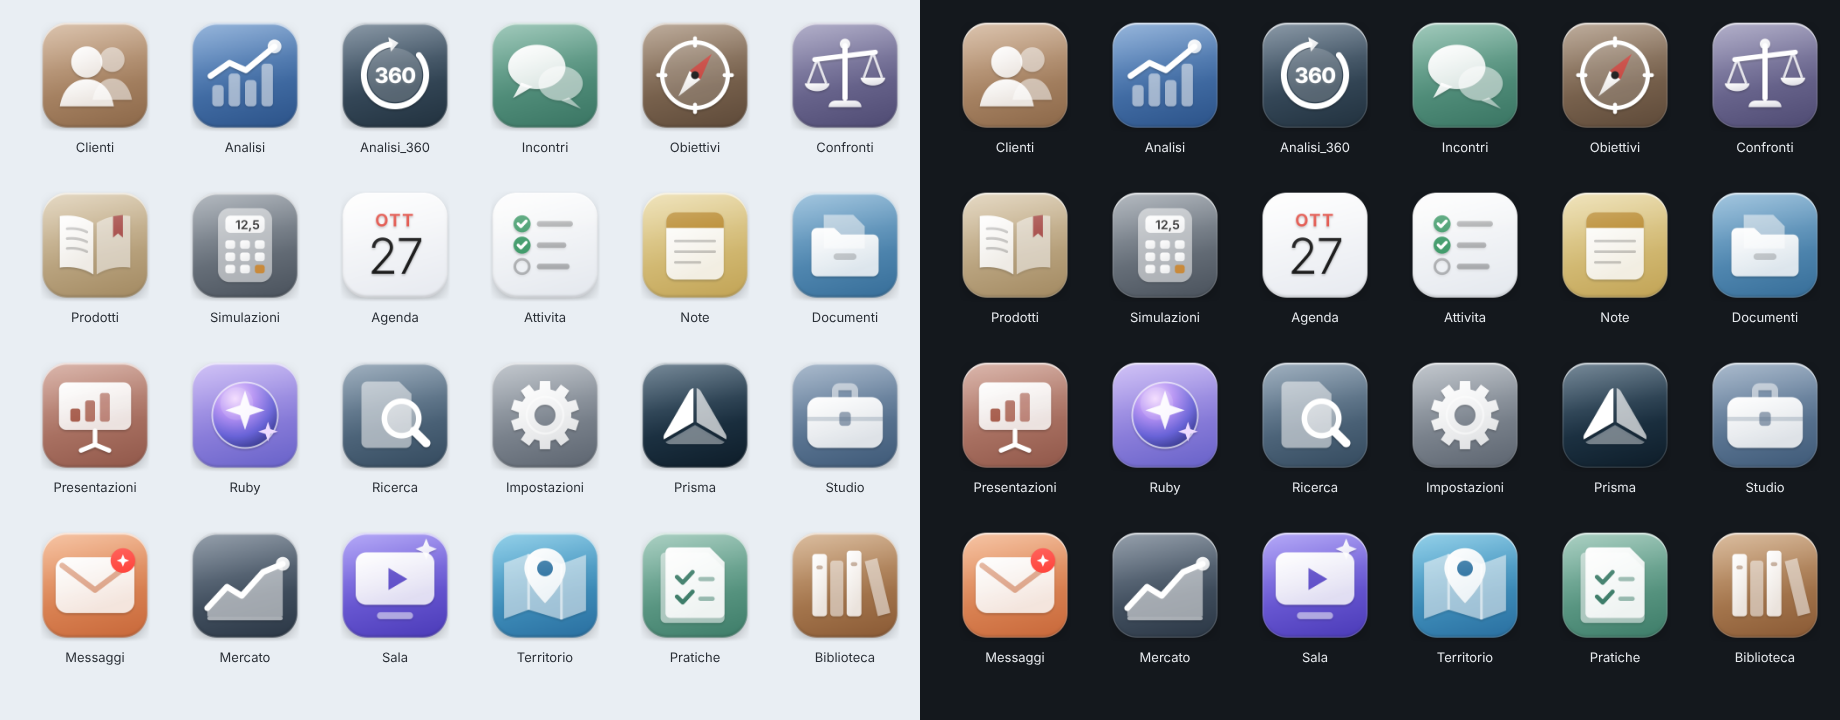
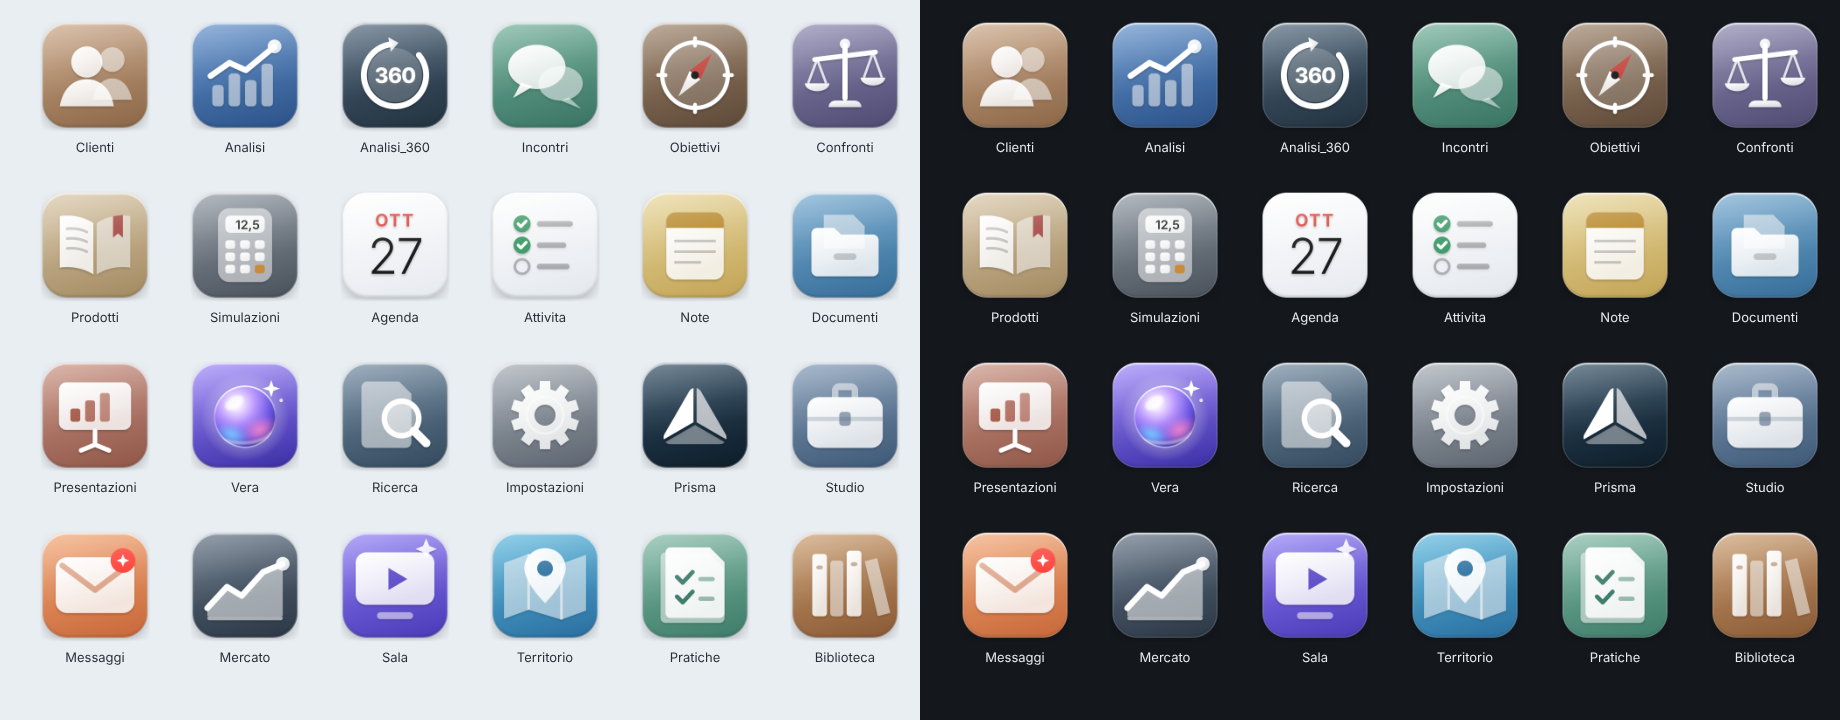
Micro-animazioni: dock, passaggio a Vera e nuova icona di Vera
- Dock: con l'ingrandimento la capsula non si alza più con le icone (escono sopra di lei,
  come nel Dock del Mac); con il puntatore già sul dock le icone lo seguono con una molla
  brevissima invece di rincorrerlo con una curva a ogni movimento.
- Dock nascosto richiamato: le finestre che arrivano fin laggiù si accorciano con lui,
  nello stesso movimento, e tornano lunghe quando scende.
- Vera della scrivania: le pagine scorrono intere e seguono il dito uno a uno (prima la
  scrivania si spostava di un terzo e sfumava), niente scatto alla partenza (lo spazio
  per decidere la direzione non si recupera di colpo), molla più rapida (0,3 s) e un
  colpo più leggero basta per cambiare pagina.
- Icona di Vera ridisegnata: la sfera luminosa grande con l'alone, la luce d'aurora,
  il riflesso e la stellina (genera-icone.js --solo-vera).

Claude-Session: https://claude.ai/code/session_01DWEqbHunoUJVuxpU2ymvqh

Changed region(s): [[0.5886, 0.4889, 0.6815, 0.7028], [0.0929, 0.4889, 0.1859, 0.7028]]

diff --git a/Design/Icone/genera-icone.js b/Design/Icone/genera-icone.js
@@ -20,6 +20,8 @@
  *     (--uscita scrive tutto in un'altra cartella, senza toccare il repository)
  *   NODE_PATH=$(npm root -g) node Design/Icone/genera-icone.js --solo-nuove
  *     (rigenera solo le icone di ICONE_NUOVE e la tavola di controllo: le altre PNG non si toccano)
+ *   NODE_PATH=$(npm root -g) node Design/Icone/genera-icone.js --solo-vera
+ *     (rigenera solo l'icona di Vera, ridisegnata il 12 novembre 2026 (VERA qui sotto), e la tavola di controllo)
  *
  * Geometria (uguale alle icone precedenti, così l'app non cambia codice):
  *   tela 512×512, piastrella 480×480 in (16, 12), raggio 23,5% come `.ic` del tema.
@@ -48,7 +50,8 @@ const USCITA = arg > 0 ? path.resolve(process.argv[arg + 1]) : null;
 const DIR_SVG = USCITA ? path.join(USCITA, 'svg') : path.join(RADICE, 'Design', 'Icone');
 const DIR_PNG = USCITA ? path.join(USCITA, 'png') : path.join(RADICE, 'Sources', 'Prisma', 'Risorse', 'Icone');
 const DIR_APP = USCITA ? USCITA : path.join(RADICE, 'Design', 'Icone');
-const SOLO_NUOVE = process.argv.includes('--solo-nuove');
+const SOLO_VERA = process.argv.includes('--solo-vera');
+const SOLO_NUOVE = process.argv.includes('--solo-nuove') || SOLO_VERA;
 
 // Nome del file nell'app → id nel tema (mappa di AppPrisma.icona)
 const ICONE = [
@@ -67,6 +70,35 @@ const SORGENTI_NUOVE = [
   [LUCE, ['Sala', 'Territorio', 'Pratiche', 'Biblioteca']]
 ];
 const ICONE_NUOVE = SORGENTI_NUOVE.flatMap(([, nomi]) => nomi);
+
+// Vera ridisegnata (12 novembre 2026, scelta lasciata a Claude dall'utente): non più il glifo del tema ma la sua
+// sfera luminosa, più grande e viva. Un alone morbido, la sfera di vetro con dentro una luce d'aurora (rosa e
+// azzurro sul viola), l'orlo chiaro, il riflesso in alto a sinistra, la luce che rimbalza in basso e una
+// stellina accanto. Riquadro 64 come gli altri glifi; gli id hanno il prefisso «v» (unici nella tela).
+const VERA = {
+  c1: '#9C84FA', c2: '#3B2FA6',
+  glifo: `<defs>
+      <radialGradient id="vAlone" cx="50%" cy="50%" r="50%"><stop offset=".6" stop-color="#E9DDFF" stop-opacity=".3"/><stop offset="1" stop-color="#fff" stop-opacity="0"/></radialGradient>
+      <radialGradient id="vSfera" cx="36%" cy="30%" r="78%"><stop offset="0" stop-color="#FFFFFF"/><stop offset=".12" stop-color="#F1E4FF"/><stop offset=".38" stop-color="#B892FF"/><stop offset=".7" stop-color="#6650E4"/><stop offset="1" stop-color="#2A2288"/></radialGradient>
+      <radialGradient id="vRosa" cx="50%" cy="50%" r="50%"><stop offset="0" stop-color="#FF86CC" stop-opacity="1"/><stop offset="1" stop-color="#FF8FD0" stop-opacity="0"/></radialGradient>
+      <radialGradient id="vAzzurro" cx="50%" cy="50%" r="50%"><stop offset="0" stop-color="#72DCFF" stop-opacity=".95"/><stop offset="1" stop-color="#7FE0FF" stop-opacity="0"/></radialGradient>
+      <linearGradient id="vOrlo" x1="0" y1="0" x2="0" y2="1"><stop offset="0" stop-color="#fff" stop-opacity=".95"/><stop offset=".5" stop-color="#fff" stop-opacity=".25"/><stop offset="1" stop-color="#fff" stop-opacity=".6"/></linearGradient>
+      <clipPath id="vDentro"><circle cx="32" cy="33" r="19"/></clipPath>
+      <filter id="vSfoca" x="-50%" y="-50%" width="200%" height="200%"><feGaussianBlur stdDeviation="1.6"/></filter>
+      <filter id="vSfocaPoco" x="-50%" y="-50%" width="200%" height="200%"><feGaussianBlur stdDeviation=".7"/></filter>
+    </defs>
+    <circle cx="32" cy="33" r="27" fill="url(#vAlone)"/>
+    <circle cx="32" cy="33" r="19" fill="url(#vSfera)"/>
+    <g clip-path="url(#vDentro)">
+      <ellipse cx="41" cy="41" rx="12" ry="8" transform="rotate(-28 41 41)" fill="url(#vRosa)" filter="url(#vSfoca)"/>
+      <ellipse cx="24" cy="44" rx="11" ry="6.5" transform="rotate(18 24 44)" fill="url(#vAzzurro)" filter="url(#vSfoca)"/>
+      <path d="M17 46c6 4 24 5 31-3" fill="none" stroke="#fff" stroke-opacity=".55" stroke-width="1.6" stroke-linecap="round" filter="url(#vSfocaPoco)"/>
+    </g>
+    <circle cx="32" cy="33" r="18.6" fill="none" stroke="url(#vOrlo)" stroke-width=".9"/>
+    <ellipse cx="25.5" cy="24.5" rx="6.2" ry="3.6" transform="rotate(-32 25.5 24.5)" fill="#fff" fill-opacity=".8" filter="url(#vSfocaPoco)"/>
+    <path d="m48 10.5 1.3 4 4 1.3-4 1.3-1.3 4-1.3-4-4-1.3 4-1.3Z" fill="#fff"/>
+    <circle cx="54" cy="23" r="1.1" fill="#fff" fill-opacity=".8"/>`
+};
 
 // Geometria
 const LATO = 512, P = 480, X0 = 16, Y0 = 12;
@@ -316,7 +348,8 @@ function svgTavola(voci) {
   // 2. Icone delle app (con --solo-nuove si saltano: restano le PNG che ci sono)
   const nomi = [];
   for (const [nome, id] of ICONE) {
-    if (SOLO_NUOVE) { nomi.push(nome); continue; }
+    // Vera non viene più dal tema: la disegna il passo 2a (VERA)
+    if (SOLO_NUOVE || id === 'vera') { nomi.push(nome); continue; }
     const a = dati(id);
     // Scrivania: il simbolo di Prisma al posto del prisma del tema
     const glifo = id === 'home' ? logoIn(tracciati, 32, 32.6, 38) : tema.glifi[id];
@@ -326,8 +359,16 @@ function svgTavola(voci) {
     nomi.push(nome);
   }
 
+  // 2a. Vera ridisegnata: sempre questa, anche con --solo-nuove e --solo-vera
+  {
+    const svg = svgIcona({ titolo: 'Vera', c1: VERA.c1, c2: VERA.c2, acc: null, chiara: false, glifo: VERA.glifo });
+    fs.writeFileSync(path.join(DIR_SVG, 'Vera.svg'), svg);
+    await rasterizza(pagina, svg, LATO, path.join(DIR_PNG, 'Vera.png'));
+  }
+
   // 2b. Icone nuove di «Orizzonte» e di «Luce», dai rispettivi template
   for (const [file, nomiIcone] of SORGENTI_NUOVE) for (const n of leggiNovita(file, nomiIcone)) {
+    if (SOLO_VERA) { nomi.push(n.nome); continue; }
     const svg = svgIcona({ titolo: n.nome, c1: n.c1, c2: n.c2, acc: null, chiara: false, glifo: n.glifo });
     fs.writeFileSync(path.join(DIR_SVG, n.nome + '.svg'), svg);
     await rasterizza(pagina, svg, LATO, path.join(DIR_PNG, n.nome + '.png'));

diff --git a/Sources/Prisma/Shell/ShellView.swift b/Sources/Prisma/Shell/ShellView.swift
@@ -427,9 +427,13 @@ struct CorpoShell: View {
 
     // MARK: Dock nascosto
 
+    /// Il dock sale sopra le finestre: chi arriva fin laggiù si accorcia con lui, nello stesso movimento.
     private func richiamaDock() {
         annullaNascondiDock()
-        if !dockRichiamato { dockRichiamato = true }
+        guard !dockRichiamato else { return }
+        Movimenti.anima(Tema.Moto.Dock.mostra, durata: Tema.Moto.Dock.durataMostra, animato: !modoIstantanea) {
+            dockRichiamato = true
+        }
     }
 
     private func annullaNascondiDock() {
@@ -440,7 +444,10 @@ struct CorpoShell: View {
     /// Il puntatore ha lasciato il dock richiamato: si nasconde dopo un attimo, se non torna.
     private func nascondiDockTraPoco() {
         annullaNascondiDock()
-        let lavoro = DispatchWorkItem { dockRichiamato = false }
+        // Il dock scende e le finestre accorciate tornano lunghe, con la stessa curva
+        let lavoro = DispatchWorkItem {
+            Movimenti.anima(Tema.Moto.Dock.nascondi, durata: Tema.Moto.Dock.durataNascondi) { dockRichiamato = false }
+        }
         attesaDock.lavoro = lavoro
         DispatchQueue.main.asyncAfter(deadline: .now() + Tema.Moto.Dock.ritardoNascondi, execute: lavoro)
     }
@@ -486,6 +493,9 @@ struct CorpoShell: View {
         let attiva = sistema.appAttiva
         // Le finestre ridotte tengono la cornice che avevano (con il dock nascosto): ridurre l'ultima non le reimpagina
         let areaRidotte = ShellView.area(per: misura, dockNascosto: true)
+        // Il dock nascosto richiamato sopra le finestre: dove arriva il suo spazio, le finestre si accorciano
+        let limiteDock: CGFloat? = dockNascosto && dockRichiamato
+            ? ShellView.area(per: misura, dockNascosto: false).height : nil
         let calmo = !modoIstantanea && Movimenti.calmo
         // Tutte le finestre fuori vista sotto la sala della presentazione (cambia di rado: un valore d'ambiente va bene);
         // coperte, nascoste, ridotte e sotto il blocco lo dice StatoFinestre.finestraInVista a chi lo chiede
@@ -493,7 +503,8 @@ struct CorpoShell: View {
         return ZStack(alignment: .topLeading) {
             ForEach(CorpoShell.inOrdineFisso(elenco)) { f in
                 finestra(f, z: elenco.firstIndex(where: { $0.app == f.app }) ?? 0, attiva: f.app == attiva,
-                         area: f.ridotta ? areaRidotte : area, calmo: calmo, sotto: sotto)
+                         area: f.ridotta ? areaRidotte : area, limiteDock: f.ridotta ? nil : limiteDock,
+                         calmo: calmo, sotto: sotto)
             }
         }
         .frame(width: area.width, height: area.height, alignment: .topLeading)
@@ -506,8 +517,11 @@ struct CorpoShell: View {
     /// riduzione, ripristino: VoloDallIcona, Shell/VoloFinestra.swift). Con «Riduci movimento» il volo è una
     /// dissolvenza breve. Il contenuto dell'app non si rifà durante i movimenti: cambiano solo i valori dei modificatori.
     /// `sotto`: tutte le finestre sono fuori vista (sotto la sala della presentazione, a dissolvenza finita).
-    private func finestra(_ f: StatoShell.Finestra, z: Int, attiva: Bool, area: CGRect, calmo: Bool, sotto: Bool) -> some View {
-        let c = stato.cornice(di: f, in: area)
+    /// `limiteDock`: con il dock richiamato, l'altezza fin dove arrivano le finestre (si accorciano, non si spostano).
+    private func finestra(_ f: StatoShell.Finestra, z: Int, attiva: Bool, area: CGRect, limiteDock: CGFloat?,
+                          calmo: Bool, sotto: Bool) -> some View {
+        let piena = stato.cornice(di: f, in: area)
+        let c = limiteDock.map { CorpoShell.accorcia(piena, fino: $0) } ?? piena
         let w = max(c.width, 1)
         let h = max(c.height, 1)
         let arrivo = sistema.inArrivo.contains(f.app)
@@ -548,6 +562,17 @@ struct CorpoShell: View {
             .accessibilityHidden(f.ridotta || coperta)
             .zIndex(Double(z))
             .transition(uscita)
+    }
+}
+
+extension CorpoShell {
+    /// Una finestra che scende oltre `fino` si accorcia fin lì (mai sotto la sua misura minima); solo se non basta sale.
+    static func accorcia(_ c: CGRect, fino altezza: CGFloat) -> CGRect {
+        guard c.maxY > altezza else { return c }
+        var r = c
+        r.size.height = max(min(Misure.Finestra.minima.height, c.height), altezza - c.minY)
+        if r.maxY > altezza { r.origin.y = max(0, altezza - r.height) }
+        return r
     }
 }
 

diff --git a/Sources/Prisma/Shell/Dock.swift b/Sources/Prisma/Shell/Dock.swift
@@ -2,7 +2,8 @@ import SwiftUI
 
 /// Dock delle applicazioni: capsula di vetro sottile con la Scrivania, il divisore e le app.
 /// Sul Mac le icone (50 pt) si ingrandiscono al passaggio del puntatore come nel Dock di macOS
-/// (template-apple-specifica.md §3.4: s = 1 + 0,36 · max(0, 1 − d/130), in 0,14 s, il dock cresce verso l'alto),
+/// (template-apple-specifica.md §3.4: s = 1 + 0,36 · max(0, 1 − d/130), in 0,14 s; dal 12 novembre 2026 la capsula
+/// non si alza più con le icone, che escono sopra di lei come nel Dock del Mac),
 /// rimbalzano al clic e sopra l'icona compare il fumetto con il nome. Con «Riduci movimento», nelle istantanee
 /// e su iPhone e iPad niente ingrandimento né rimbalzo.
 /// Il Dock legge lo stato condiviso (app consentite, attiva, aperte); il passaggio vive in `FilaDock`,
@@ -151,8 +152,15 @@ private struct FilaDock: View, Equatable {
             let aumenti = ingrandimenti(puntatore).reduce(CGFloat(0)) { somma, s in somma + (s - 1) }
             let crescita = aumenti * Tema.Misura.dockIcona
             let x = p.x - crescita / 2
-            if let vecchia = puntatore, abs(vecchia - x) < Tema.Misura.filo { return }
-            withAnimation(Tema.Apple.Moto.IngrandimentoDock.animazione) { puntatore = x }
+            guard let vecchia = puntatore else {
+                // Entrando le icone crescono con la curva del tema
+                withAnimation(Tema.Apple.Moto.IngrandimentoDock.animazione) { puntatore = x }
+                return
+            }
+            guard abs(vecchia - x) >= Tema.Misura.filo else { return }
+            // Poi seguono il puntatore quasi senza ritardo, come il Dock del Mac: una molla brevissima che si
+            // riaggancia a ogni movimento (una curva a tempo fisso le farebbe inseguire il puntatore)
+            withAnimation(Tema.Apple.Moto.IngrandimentoDock.segui) { puntatore = x }
         case .ended:
             guard puntatore != nil else { return }
             withAnimation(Tema.Apple.Moto.IngrandimentoDock.animazione) { puntatore = nil }
@@ -274,9 +282,10 @@ struct ElementoDock<Icona: View>: View {
             VStack(spacing: 0) {
                 icona()
                     .frame(width: lato, height: lato)
-                    // Una scala (l'immagine resta nitida: le icone sono PNG da 512 px), poi la cella della misura nuova
+                    // Una scala (l'immagine resta nitida: le icone sono PNG da 512 px). La cella si allarga (le vicine
+                    // fanno posto) ma non si alza: l'icona esce sopra la capsula e il dock resta dov'è, come sul Mac
                     .scaleEffect(ingrandimento, anchor: .bottom)
-                    .frame(width: lato * ingrandimento, height: lato * ingrandimento, alignment: .bottom)
+                    .frame(width: lato * ingrandimento, height: lato, alignment: .bottom)
                     .corniceIconaDock(app)
                     .modifier(RimbalzoIconaDock(fase: CGFloat(rimbalzo)))
                 Text(etichetta)
@@ -310,6 +319,8 @@ struct ElementoDock<Icona: View>: View {
                     .alignmentGuide(VerticalAlignment.top) { d in
                         d[VerticalAlignment.bottom] + m.suggerimentoDistanza
                     }
+                    // Sopra l'icona ingrandita, che esce dalla cella
+                    .offset(y: -(ingrandimento - 1) * lato)
                     .transition(.opacity)
                     .allowsHitTesting(false)
                     .accessibilityHidden(true)

diff --git a/Sources/Prisma/Shell/VeraScrivania.swift b/Sources/Prisma/Shell/VeraScrivania.swift
@@ -15,12 +15,14 @@ import Observation
     @ObservationIgnored var attivo = false
     /// La pagina da cui è partito.
     @ObservationIgnored var partenza: CGFloat = 0
+    /// Lo spostamento del dito quando il gesto è stato preso: la pagina parte da qui, senza scatto.
+    @ObservationIgnored var avvio: CGFloat = 0
 
     /// Segue il dito: `dito` è lo spostamento orizzontale dall'inizio (negativo = verso sinistra, verso Vera).
     /// Oltre le due pagine il movimento rallenta, come gli scorrimenti del Mac.
     func segui(dito: CGFloat, larghezza: CGFloat) {
         let w = max(larghezza, 1)
-        let posizione = Movimenti.elastico(partenza * w - dito, minimo: 0, massimo: w)
+        let posizione = Movimenti.elastico(partenza * w - (dito - avvio), minimo: 0, massimo: w)
         let nuovo = posizione / w - partenza
         guard abs(nuovo - spostamento) > 0.0005 else { return }
         var t = Transaction()
@@ -132,8 +134,10 @@ struct PagineScrivania: View {
                 .environment(\.prismaInVista, !(ferme || (dietroVera && visibile >= 1)))
                 .frame(width: w, height: altezza)
                 .offset(x: calmo ? 0 : -p * w * m.corsaScrivania, y: Misure.Barra.altezza)
-                // Sotto una finestra ingrandita, a transizione finita, la scrivania non si disegna (resta montata)
-                .opacity(nascosti ? 0 : Double(1 - visibile))
+                // Sotto una finestra ingrandita, a transizione finita, la scrivania non si disegna (resta montata).
+                // Le pagine scorrono intere col dito: si dissolvono solo con «Riduci movimento»; a pagina finita
+                // quella fuori schermo non si disegna
+                .opacity(nascosti ? 0 : calmo ? Double(1 - visibile) : (visibile >= 1 ? 0 : 1))
                 .allowsHitTesting(!sistema.scrivaniaNascosta && p < Tema.Moto.VeraScrivania.sogliaPagina)
                 // Simultaneo: il tocco della goccia sul fondo e i riquadri non devono inghiottire il trascinamento
                 .simultaneousGesture(trascinamento(larghezza: w))
@@ -149,7 +153,7 @@ struct PagineScrivania: View {
                 .environment(\.prismaInVista, !ferme)
                 .frame(width: w, height: altezza)
                 .offset(x: calmo ? 0 : (1 - p) * w * m.corsaVera, y: Misure.Barra.altezza)
-                .opacity(nascosti ? 0 : Double(visibile))
+                .opacity(nascosti ? 0 : calmo ? Double(visibile) : (visibile > 0 ? 1 : 0))
                 .allowsHitTesting(p >= Tema.Moto.VeraScrivania.sogliaPagina && !sistema.scrivaniaNascosta)
             }
 
@@ -212,6 +216,7 @@ struct PagineScrivania: View {
                     // Verso Vera dalla scrivania, verso la scrivania da Vera
                     guard (dx < 0 && partenza < 0.5) || (dx > 0 && partenza >= 0.5) else { return }
                     gesto.partenza = partenza
+                    gesto.avvio = dx
                     gesto.attivo = true
                 }
                 gesto.segui(dito: dx, larghezza: w)

diff --git a/Sources/Prisma/DesignSystem/TemaVeraScrivania.swift b/Sources/Prisma/DesignSystem/TemaVeraScrivania.swift
@@ -8,16 +8,18 @@ import SwiftUI
 extension Tema.Misura {
     enum VeraScrivania {
         // Le due pagine
-        /// Quanto scorre la scrivania (in larghezze) mentre si apre Vera; con «Riduci movimento» niente, solo dissolvenza.
-        static let corsaScrivania: CGFloat = 0.32
-        /// Da quanto lontano arriva Vera (in larghezze).
-        static let corsaVera: CGFloat = 0.22
+        /// Quanto scorre la scrivania (in larghezze) mentre si apre Vera: una pagina intera, così segue il dito
+        /// uno a uno come gli spazi del Mac; con «Riduci movimento» niente, solo dissolvenza.
+        static let corsaScrivania: CGFloat = 1
+        /// Da quanto lontano arriva Vera (in larghezze): dal bordo destro, attaccata alla scrivania.
+        static let corsaVera: CGFloat = 1
         /// Il gesto deve muoversi di tanto (pt) prima di decidere se è orizzontale.
         static let sogliaAvvio: CGFloat = 8
         /// È orizzontale se lo spostamento in x supera di tanto quello in y.
         static let rapportoOrizzontale: CGFloat = 1.3
-        /// Il trascinamento col mouse parte dopo tanti punti (i clic sui widget restano clic).
-        static let distanzaTrascinamento: CGFloat = 24
+        /// Il trascinamento col mouse parte dopo tanti punti (i clic sui widget restano clic). La pagina parte da lì,
+        /// senza scatto: lo spazio di avvio non si recupera di colpo.
+        static let distanzaTrascinamento: CGFloat = 12
 
         // I due puntini delle pagine, sopra il dock
         static let punto: CGFloat = 6
@@ -110,12 +112,12 @@ extension Tema.Moto {
     enum VeraScrivania {
         /// Il passaggio tra le pagine: molla senza rimbalzo, con la velocità del gesto.
         static func pagina(velocita: Double = 0) -> Animation {
-            Tema.Moto.conMolla(risposta: 0.42, smorzamento: 1, velocita: velocita)
+            Tema.Moto.conMolla(risposta: 0.3, smorzamento: 1, velocita: velocita)
         }
-        static let durataPagina: Double = 0.45
+        static let durataPagina: Double = 0.32
         /// Al rilascio si cambia pagina oltre metà corsa, oppure con un colpo più veloce di così (pagine al secondo).
         static let sogliaPagina: CGFloat = 0.5
-        static let velocitaColpo: CGFloat = 0.9
+        static let velocitaColpo: CGFloat = 0.5
         /// La velocità del dito si misura sugli ultimi tanti secondi del gesto.
         static let finestraVelocita: Double = 0.1
         /// Il pannello che si allarga: la stessa molla della mini Vera (da capsula a scheda).

diff --git a/Sources/Prisma/DesignSystem/Movimento.swift b/Sources/Prisma/DesignSystem/Movimento.swift
@@ -207,8 +207,10 @@ extension Tema.Moto {
     }
 
     enum Dock {
-        static let mostra = Tema.Moto.uscita(0.2)
-        static let nascondi = Animation.easeIn(duration: 0.16)
+        static let mostra = Tema.Moto.uscita(durataMostra)
+        static let durataMostra: Double = 0.2
+        static let nascondi = Animation.easeIn(duration: durataNascondi)
+        static let durataNascondi: Double = 0.16
         static let ritardoNascondi: Double = 0.35
         /// Il fumetto con il nome sopra l'icona: compare e scompare subito, con una dissolvenza brevissima.
         static let suggerimento = Animation.easeOut(duration: 0.08)

diff --git a/Sources/Prisma/DesignSystem/Apple/TemaAppleMoto.swift b/Sources/Prisma/DesignSystem/Apple/TemaAppleMoto.swift
@@ -353,6 +353,8 @@ extension Tema.Apple {
             static let aumento: CGFloat = 0.36
             static let portata: CGFloat = 130
             static var animazione: Animation { Curva.ease.animazione(durata) }
+            /// Con il puntatore già sul dock le icone lo seguono con una molla brevissima, senza rimbalzo.
+            static let segui = Animation.interactiveSpring(response: 0.09, dampingFraction: 1)
             static func scala(distanza: CGFloat) -> CGFloat { 1 + aumento * max(0, 1 - distanza / portata) }
         }
 

diff --git a/Sources/Prisma/Shell/GestoVeraScrivania.swift b/Sources/Prisma/Shell/GestoVeraScrivania.swift
@@ -123,6 +123,8 @@ final class MonitorGestoVera {
                 fase = .segue
                 let g = s.sistema.gestoVera
                 g.partenza = partenza
+                // La pagina parte da qui: lo spazio per decidere la direzione non diventa uno scatto
+                g.avvio = dito
                 g.attivo = true
                 campiona(e.timestamp)
                 g.segui(dito: dito, larghezza: larghezza)

diff --git a/Design/template-apple-specifica.md b/Design/template-apple-specifica.md
@@ -574,7 +574,7 @@ In SwiftUI è uno `ZStack` in `Shell/` con `zIndex` espliciti: `Tema.Apple.Livel
 - **Voci del template**, in ordine: Scrivania, Clienti, Posizioni, Analisi 360, Agenda, Prospetti, Ruby, Impostazioni. In Prisma restano le voci e le regole di `AppPrisma.delDock`: Posizioni subito dopo Clienti, e le app ospitate (Obiettivi, Documenti, Simulazioni, Confronti, Attività) non hanno una voce propria.
 - **Ingrandimento.**
   - Si calcola `d = |x − centro voce|`, poi `s = 1 + 0,36·max(0, 1 − d/130)`.
-  - L'icona diventa `50·s` (al massimo 68) e la voce `62·(1 + (s − 1)·0,7)`. La transizione è di 0,14 s e il dock cresce verso l'alto.
+  - L'icona diventa `50·s` (al massimo 68) e la voce `62·(1 + (s − 1)·0,7)`. La transizione è di 0,14 s; la capsula del dock non si alza (dal 12 novembre 2026, richiesta dell'utente): le icone ingrandite escono sopra di lei, come nel Dock del Mac, e con il puntatore già sul dock lo seguono con una molla brevissima.
   - Anche la data dell'Agenda si ingrandisce:
     - «NOV» 8·s bold `#E5484D`, a `9 + 50(s−1)·0,2`;
     - il giorno 21·s medium `#222`, a `17 + 50(s−1)·0,34`.
